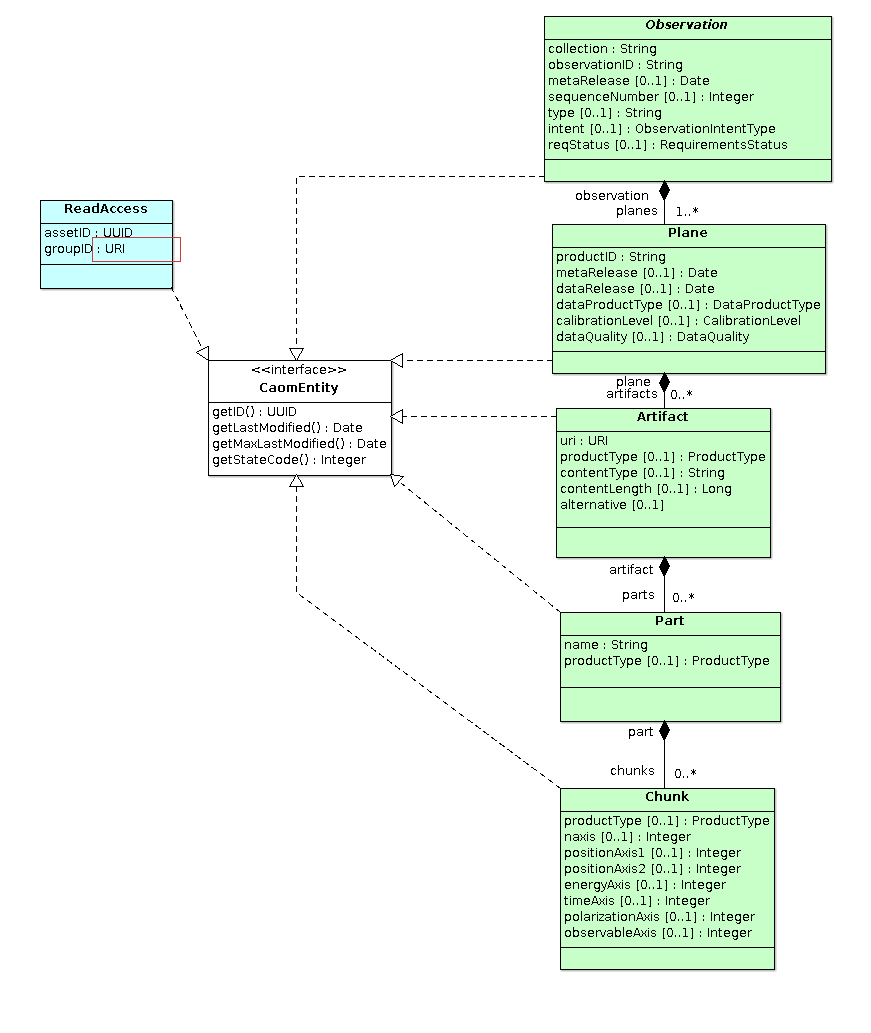
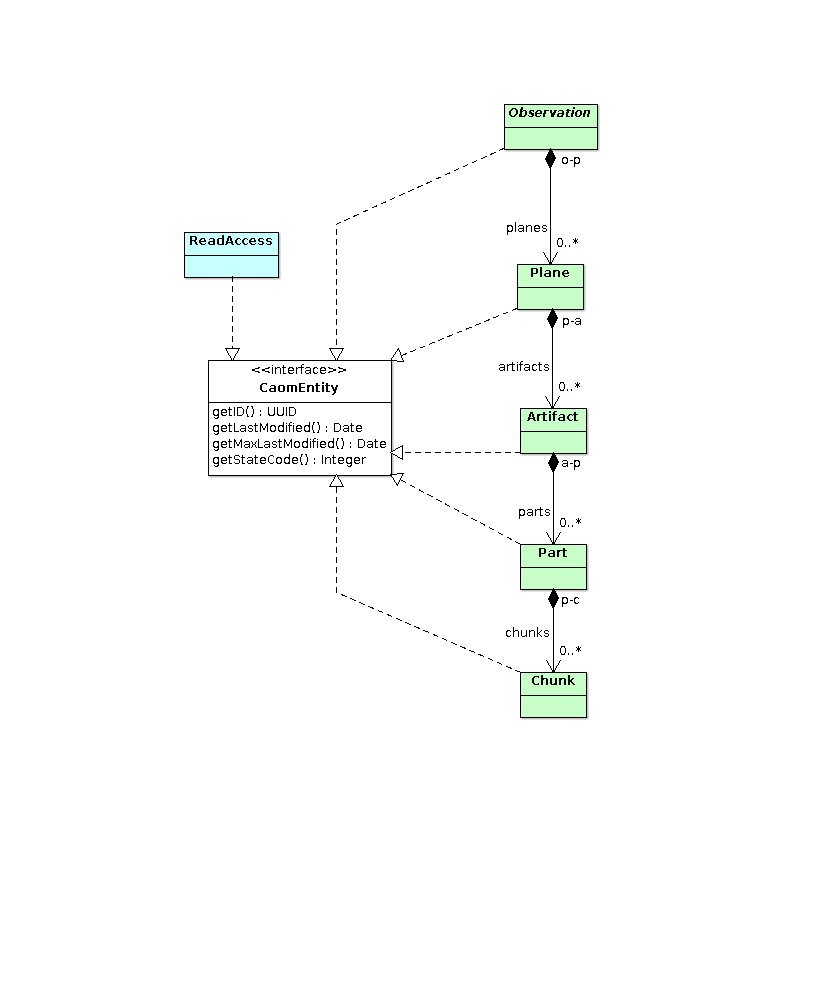
modified UML diagrams for CAOM-2.2

diff --git a/source/caom2/src/www/index.html b/source/caom2/src/www/index.html
@@ -12,7 +12,7 @@
 
 <div class="main">
 
-<h1>Common Archive Observation Model (CAOM-2.0)</h1>
+<h1>Common Archive Observation Model (CAOM-2.2)</h1>
 
 <p>
 The Common Archive Observation Model (CAOM) is a general purpose data model for
@@ -33,7 +33,7 @@ that is available through all applications.
     scenarios for data products.
 </p>
 
-<h2>CAOM-2.0 Software</h2>
+<h2>CAOM-2.2 Software</h2>
 
 <div class="table">
 <table class="content">
@@ -42,11 +42,11 @@ that is available through all applications.
     </tr>
     <tr>
         <td><a href="http://www.cadc-ccda.hia-iha.nrc-cnrc.gc.ca/tap/">Table&nbsp;Access&nbsp;Protocol&nbsp;(TAP)</a></td>
-        <td>a web service for ad-hoc querying, including both CAOM-2.0 and the IVOA ObsCore-1.0 Data Model</td>
+        <td>a web service for ad-hoc querying, including both CAOM and the IVOA ObsCore-1.1 Data Model</td>
     </tr>
     <tr class="even">
         <td><a href="http://www.cadc-ccda.hia-iha.nrc-cnrc.gc.ca/sia/">Simple&nbsp;Image&nbsp;Access&nbsp;(SIA)</a></td>
-        <td> a web service for finding calibrated images (uses TAP and CAOM-2.0)</td>
+        <td> a web service for finding calibrated images (uses TAP and CAOM)</td>
     </tr>
     <tr class="odd">
         <td><a href="http://www.cadc-ccda.hia-iha.nrc-cnrc.gc.ca/AdvancedSearch/">AdvancedSearch</a></td>
@@ -54,13 +54,20 @@ that is available through all applications.
     </tr>
     
     <tr class="even">
-        <td><a href="http://www.cadc-ccda.hia-iha.nrc-cnrc.gc.ca/caom2repo/">CAOM-2.0 observation repository</a></td>
-        <td>web service to support ingestion of data to CAOM-2.0 at CADC (requires authentication)</td>
+        <td><a href="http://www.cadc-ccda.hia-iha.nrc-cnrc.gc.ca/caom2ops/">CAOM operations services</a></td>
+        <td>a set of high level web services to support use of CAOM: drill down to downloads using IVOA DataLink, 
+            cutouts on data files using IVOA SODA, get detailed metadata of a CAOM observation, get all files
+            in a product (CAOM Plane) from a single download URL</td>
+    </tr>
+    
+    <tr class="even">
+        <td><a href="http://www.cadc-ccda.hia-iha.nrc-cnrc.gc.ca/caom2repo/">CAOM observation repository</a></td>
+        <td>web service to support ingestion of metadadata into CAOM at CADC (requires authentication)</td>
     </tr>
     
     <tr class="odd">
         <td><b>caom2</b></td>
-        <td>java library for manipulating CAOM-2.0 observations, including reading and writing XML documents
+        <td>java library for manipulating CAOM observations, including reading and writing XML documents
             <br><a href="http://code.google.com/p/caom/">source code</a></td>
     </tr>
     
@@ -72,13 +79,13 @@ that is available through all applications.
     
     <tr class="odd">
         <td><b>pyCAOM2</b></td>
-        <td>python library for manipulating CAOM-2.0 observations, including reading and writing XML documents
+        <td>python library for manipulating CAOM observations, including reading and writing XML documents
             <br><a href="http://code.google.com/p/caom/">source code</a></td>
     </tr>
     
     <tr class="even">
         <td><b>caom2repoClient</b></td>
-        <td>python command-line tool for interacting with the CAOM-2.0 observation repository, supports
+        <td>python command-line tool for interacting with the CAOM observation repository, supports
             get, put, update, delete (requires authentication)
             <br><a href="http://code.google.com/p/caom/">source code</a></td>
     </tr>
@@ -126,8 +133,11 @@ methods should also be stored for efficient querying (for example, by the TAP se
 <h3>Changes</h3>
 
 <ul>
-	<li>2014-11-18 (red outline): added Observation.requirements with a Status flag; added Plane.qualityFlag; moved 
-		all vocabularies (enumerations) a separate diagram (below)
+    <li>2016-03-15 (red outline): extracted ObservationURI and PlaneURI concepts explicitly in the model; made
+        the entity aggregations (e.g. Observation-to-Plane uni-directional); changed ReadAccess so groupID is a 
+        (resolvable) URI; marginally uncertain about how to handle the reference from PlaneURI to ObservationURI
+    <li>2014-11-18: added Observation.requirements with a Status flag; added Plane.qualityFlag; moved 
+	all vocabularies (enumerations) a separate diagram (below)
     <li>2014-02-10: added restwav (observed rest wavelength) to computed plane energy metadata
     <li>2013-11-26: added moving flag to Target class, added TargetPosition class
     <li>2013-09-08: added PolarizationState literals: POLI (polarized intensity), FPOLI (fractional polarized intensity), 
